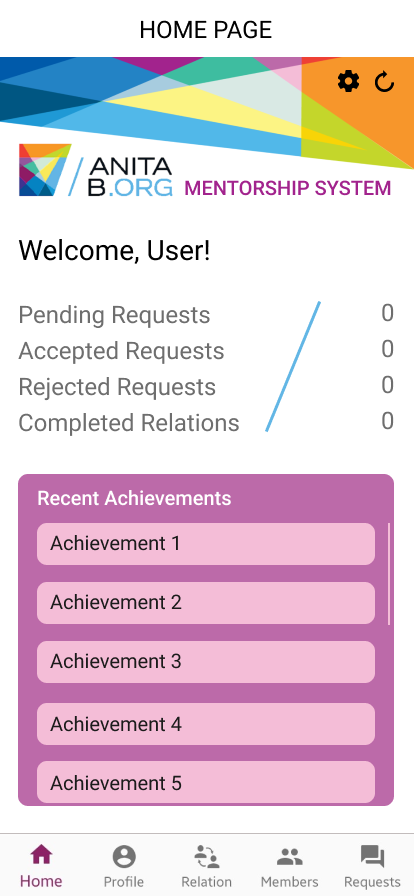
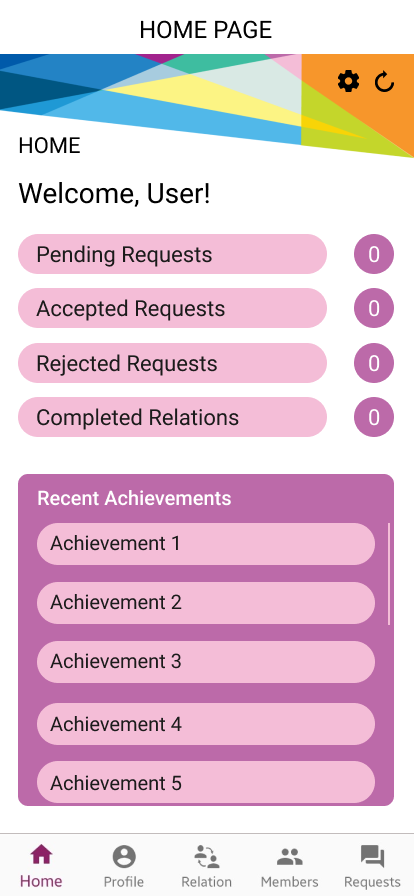
Home Page UI update. Link to figma file included

diff --git a/docs/ui/HomePageUI.md b/docs/ui/HomePageUI.md
@@ -1,0 +1,2 @@
+Link to figma file of Home Page UI.
+[Home Page UI Figma](https://www.figma.com/file/CPEGWFsmGlwzqi6Lwii34u/Mentorship-android?node-id=4%3A52)
